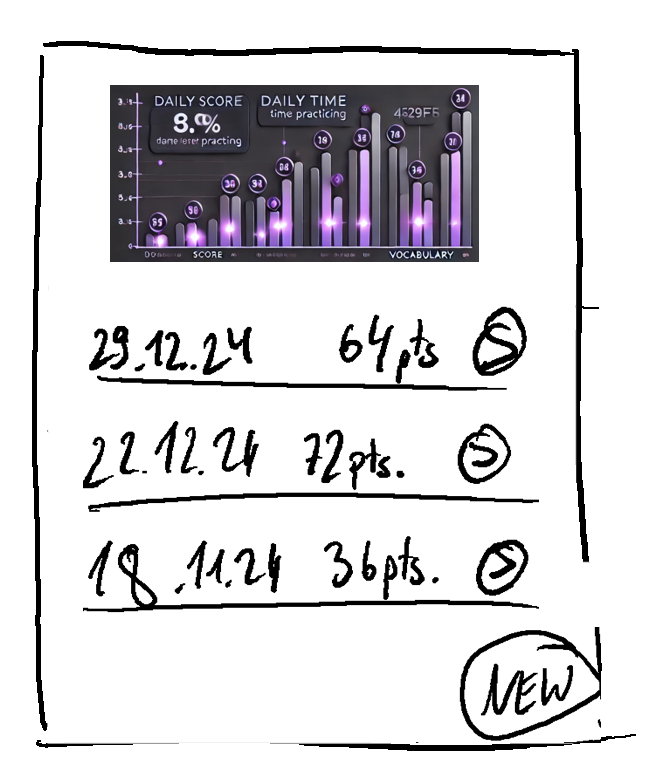
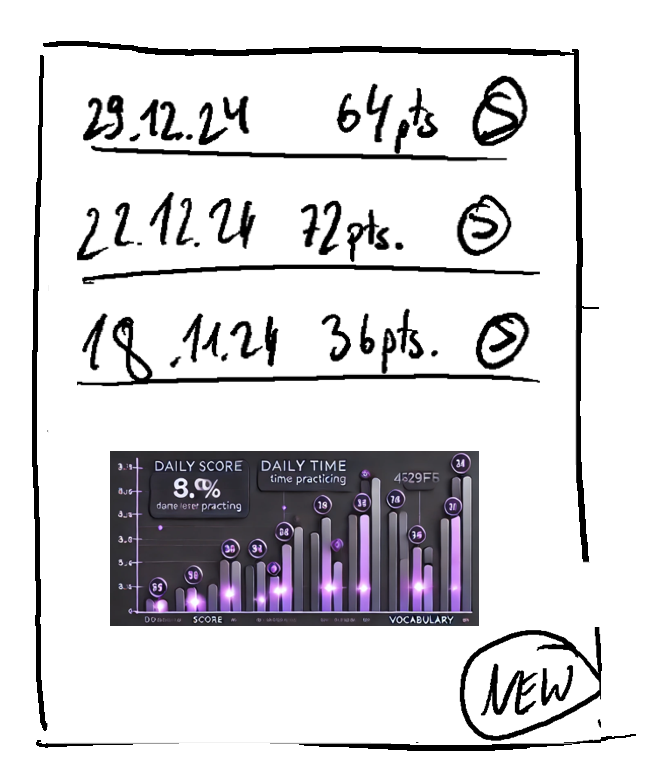
Update the evaluation thresholds add more details to the dashboard

Changed region(s): [[0.1192, 0.093, 0.8048, 0.8062]]

diff --git a/docs/concept.md b/docs/concept.md
@@ -53,7 +53,11 @@ Users can receive an evaluation only if the following
 conditions are met:
 1. The total number of words sent by the user
    throughout the conversation exceeds 10 words.
-2. The conversation duration exceeds 3 minutes.
+If criteria aren’t met, users see a friendly message:
+*"Your conversation didn’t meet the criteria for evaluation.
+Please ensure more discussion for meaningful feedback."*
+
+---
 
 ### Evaluation
 
@@ -64,27 +68,28 @@ see your evaluation and the now locked conversation.
 
 ### Log
 
-The log screen shows a **Dashboard** at first,
-featuring a multivariable analysis using a bar chart:
-
-- **X-axis**: Dates (day/month).
-- **Y-axis**: Overall scores (from 0% to 100%) per day.
-  (Scores are calculated by asking the LLM
-  to provide an overall rating for all conversations
-  that took place on that specific day.)
-
-**Additional details:**
-- Each bar displays the rounded total duration
-  (in minutes) at the top for that day.
-- These scores and durations are stored in the database.
-
-Below the Dashboard, the log screen shows a full list of all
+The log screen shows a full list of all
 past (now locked) conversations and their evaluations
 (see evaluation screen). A user can initiate
 a new conversation here. When he clicks “NEW”,
 the user sees the screen “When ‘Chat’ is clicked”.
 [HOW WILL CHANGES OVER TIME BE VISUALISED?
 E.G. VIA BUTTON TO DEPICT GRAPHS ON THE BOTTOM LEFT?]
+
+#### Dashboard Features:
+A **bar chart** presents a multivariable analysis:
+- **X-axis**: Dates (day/month).
+- **Y-axis**: Overall scores (0%–100%) for each day
+(calculated as the average rating of all conversations for that day).
+
+Additional details:
+- Bars display total conversation duration (in minutes) at the top.
+- Scores and durations are stored in a database.
+- A **horizontal scrollbar** allows exploration of historical data.
+
+**Note:** The dashboard appears after **7 days** of usage.
+Before then, users see:
+*"You’ll receive visualizations of your progress after completing 7 days of conversations."*
 
 <img src="./files/lugha-sketch-log.png" alt="lugha-sketch-log.png" width="25%" />
 
